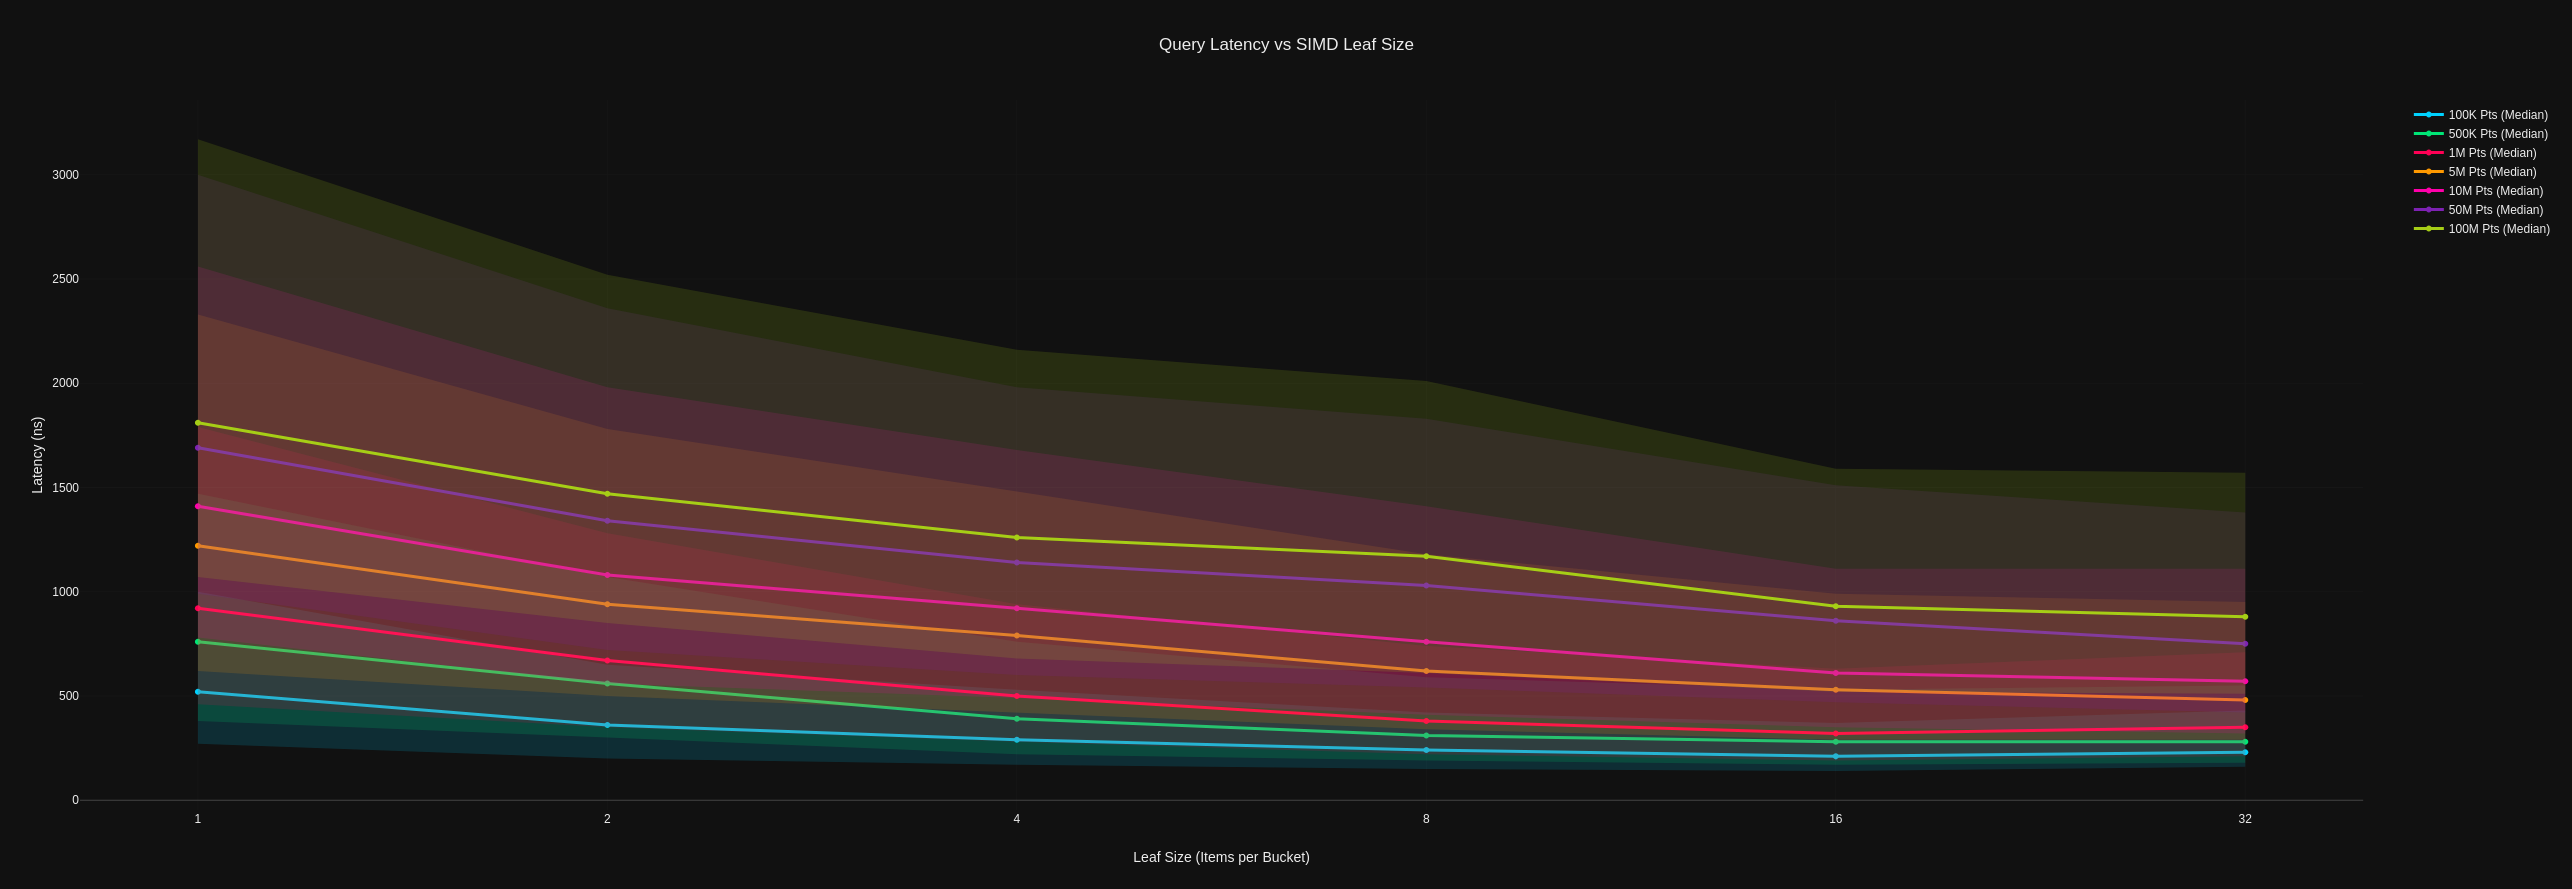
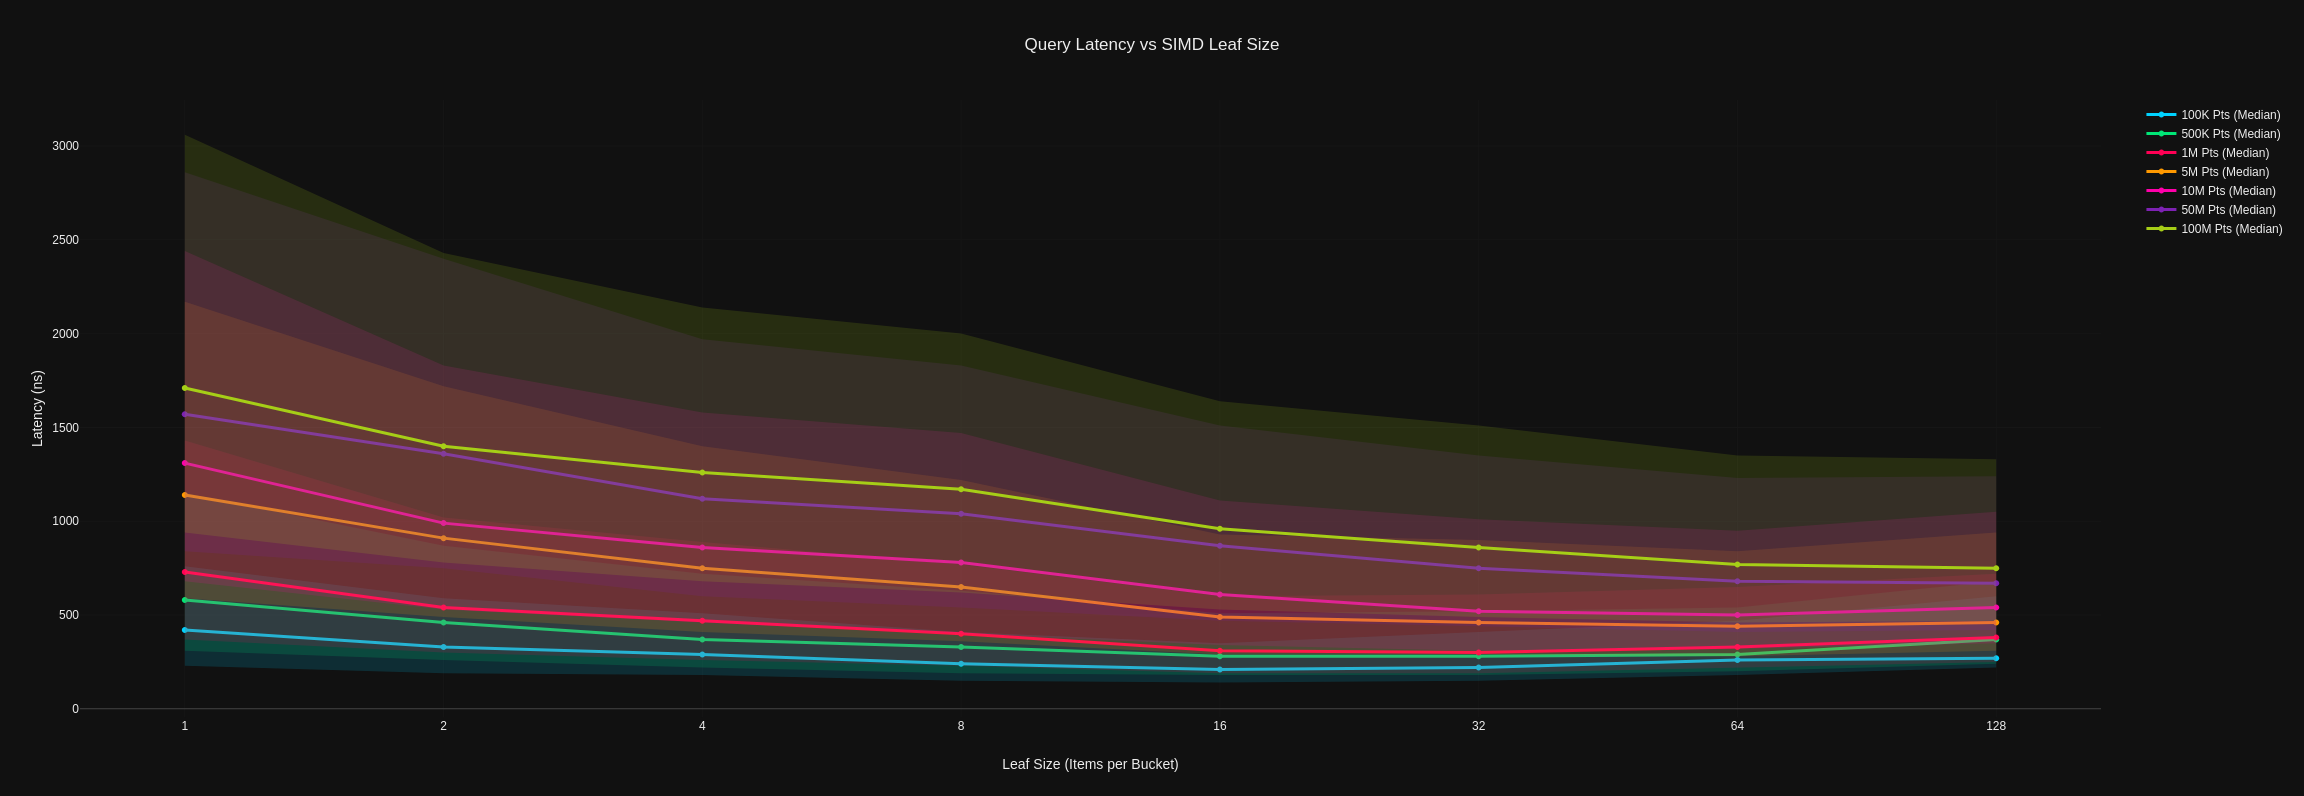
Updated demo plots to reflect the current version. Minor cleanup and better parametrization in code.

diff --git a/include/kd3/query.hpp b/include/kd3/query.hpp
@@ -2,7 +2,7 @@
 /**
  * @file query.hpp
  * @author karurochari
- * @brief Lightweight part of the kd3 library, without memory allocations header library for a vec3 kd-tree, embeddable part.
+ * @brief Lightweight part of the kd3 library, without memory allocations and embedded-friendly.
  * @date 2026-05-04
  * 
  * @copyright Copyright (c) 2026
@@ -19,6 +19,7 @@ namespace kd3 {
 
 constexpr float INF =  1e15f;
 constexpr float INF2 = 1e29f;
+constexpr size_t MAX_STACK_DEPTH = 48;
 
 using std::sort;
 using std::nth_element;
@@ -142,7 +143,7 @@ public:
         uint32_t best_id = 0;
 
         struct SearchNode { size_t idx; float node_min_dist_sq; };
-        SearchNode stack[128]; 
+        SearchNode stack[MAX_STACK_DEPTH]; 
         size_t stack_sz = 0;
         
         stack[stack_sz++] = {0, 0.0f};
@@ -228,7 +229,7 @@ public:
         };
 
         struct SearchNode { size_t idx; float min_dist_sq; };
-        SearchNode stack[128]; 
+        SearchNode stack[MAX_STACK_DEPTH]; 
         size_t stack_sz = 0;
         stack[stack_sz++] = {0, 0.0f};
 

diff --git a/include/kd3/kd3.hpp b/include/kd3/kd3.hpp
@@ -186,7 +186,7 @@ public:
     /**
      * @brief Extracts the non-owning view capable of device offload.
      * 
-     * @return KdTreeView<LeafSize> The view of this tree.
+     * @return KdTreeView<LeafSize> The view of this tree after building.
      */
     KdTreeView<LeafSize> view() const noexcept {
         return KdTreeView<LeafSize>(split_vals, split_dims, buckets);
